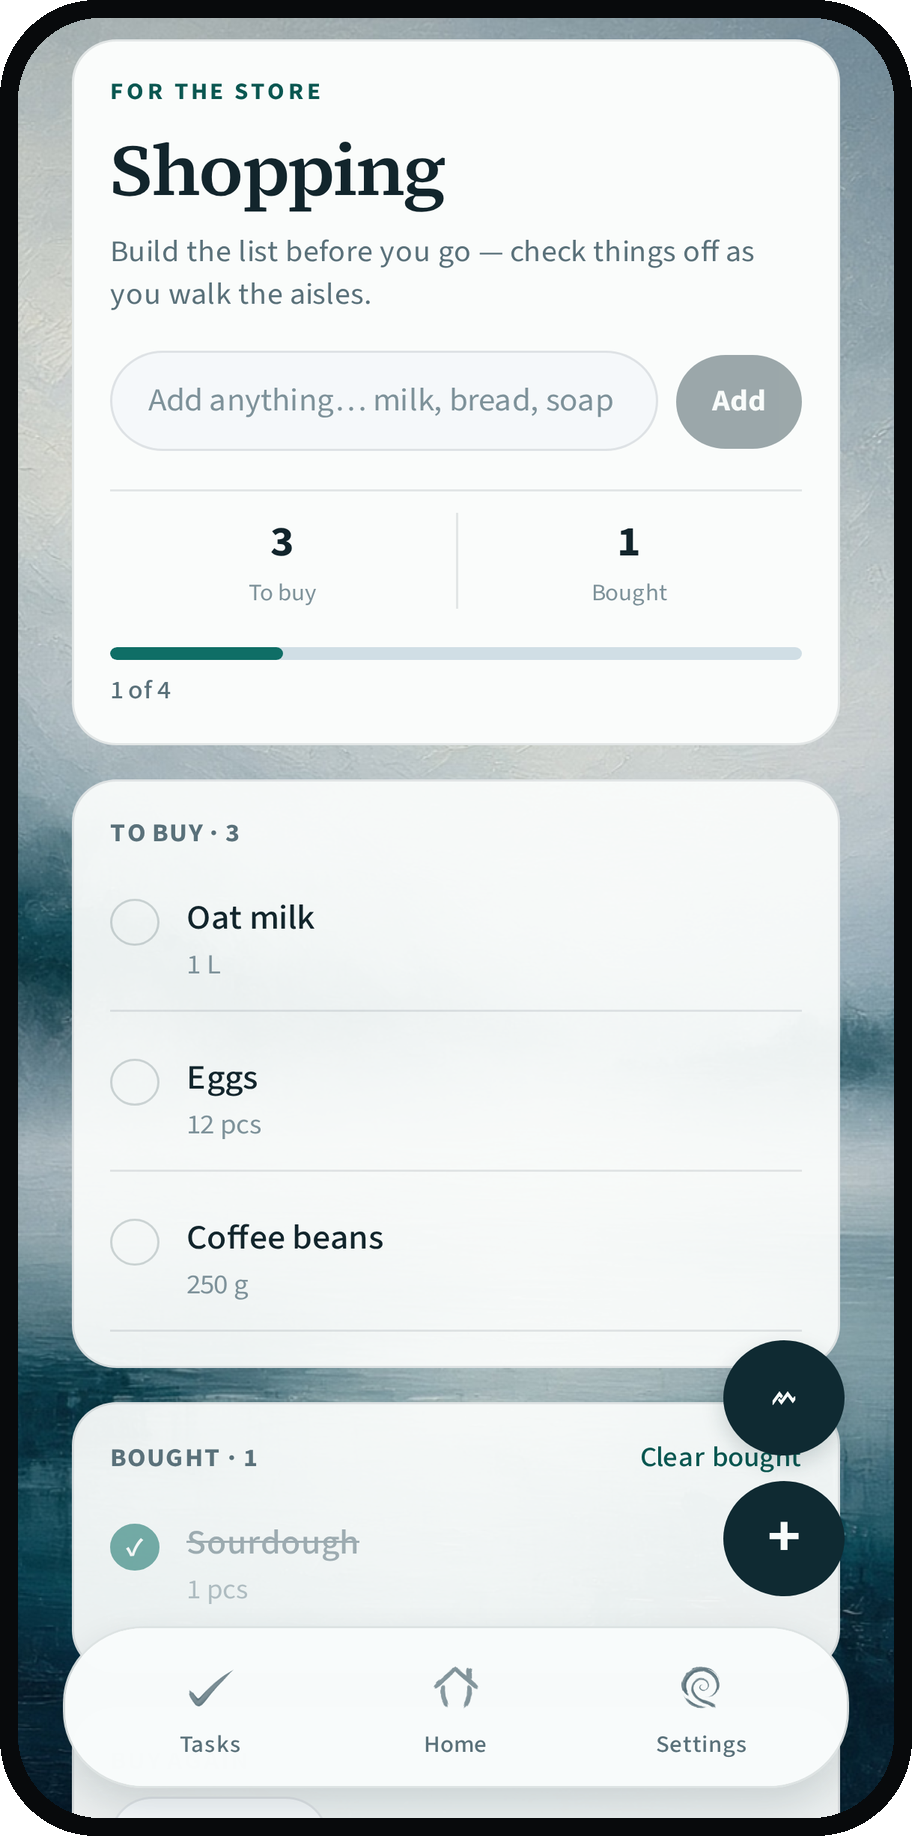
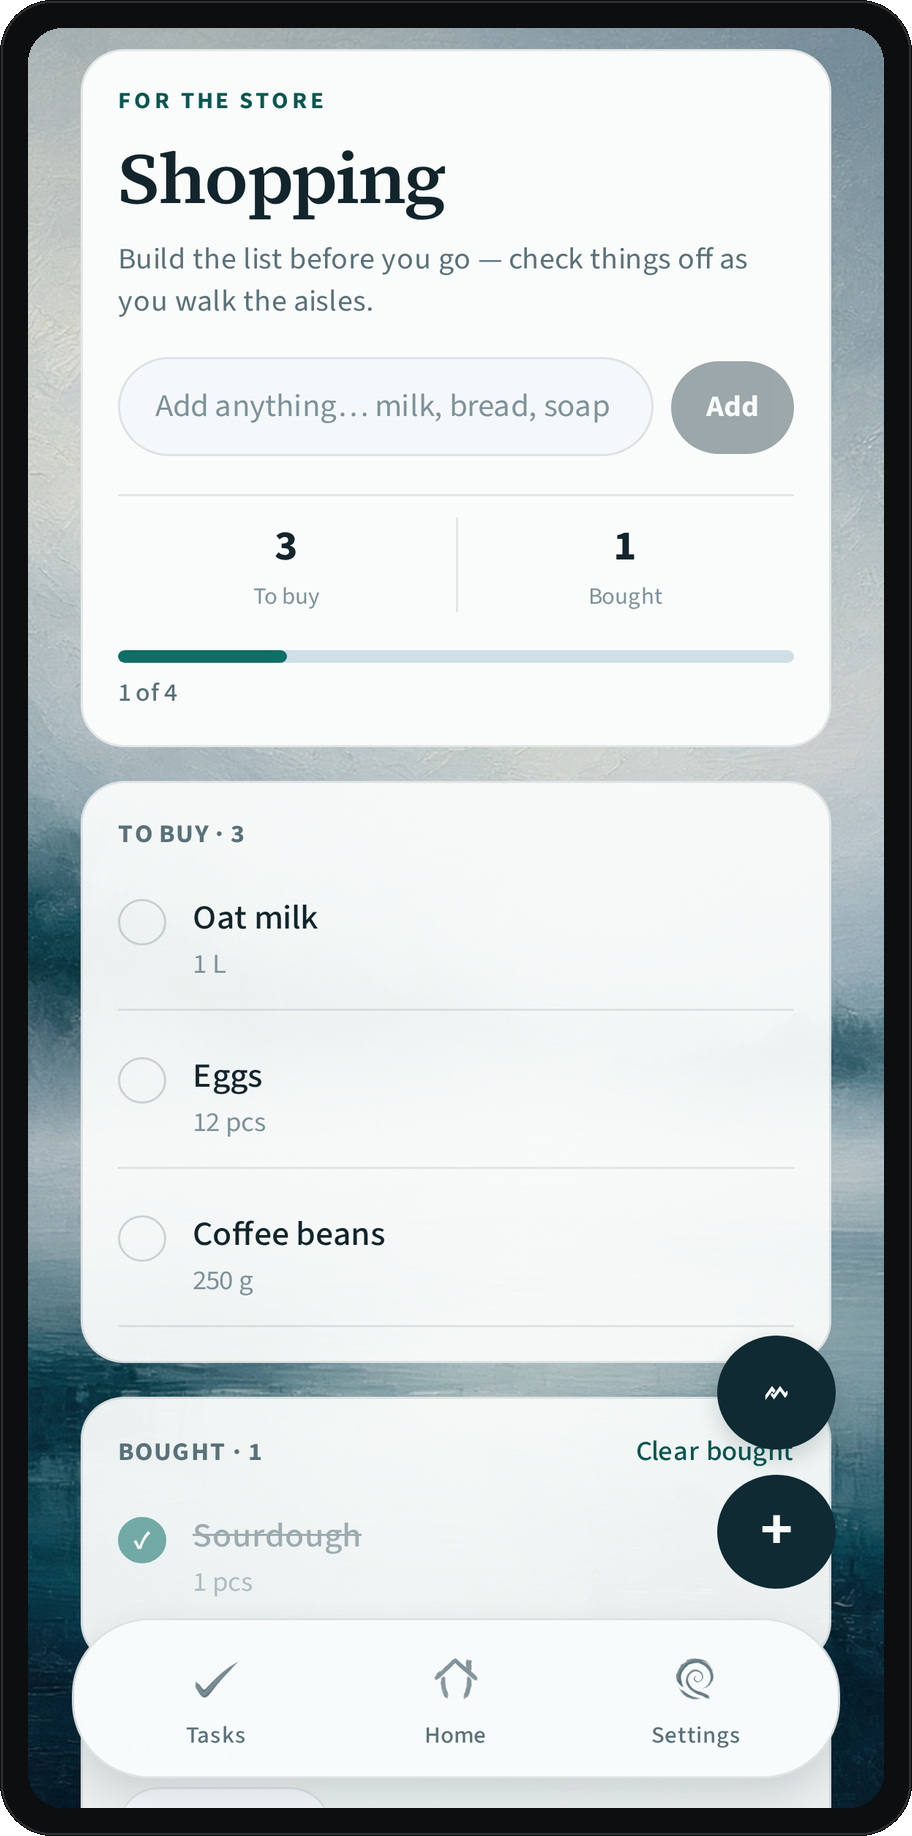
Make landing phones look like phones, not capsules (#214)
Tighten framed-device corner masks and CSS clip radii, keep a
visible bezel so Free/Pro mockups read as handsets again.

diff --git a/nova/public-site/index.html b/nova/public-site/index.html
@@ -10,7 +10,7 @@
     />
     <meta property="og:title" content="Wahrly" />
     <meta property="og:description" content="Your life, clearly." />
-    <meta property="og:image" content="./media/devices/home.png?v=r5" />
+    <meta property="og:image" content="./media/devices/home.png?v=phone3" />
     <link rel="icon" href="./media/icon.png" />
     <link rel="preconnect" href="https://fonts.googleapis.com" />
     <link rel="preconnect" href="https://fonts.gstatic.com" crossorigin />
@@ -18,7 +18,7 @@
       href="https://fonts.googleapis.com/css2?family=Fraunces:opsz,wght@9..144,480;9..144,600&family=Outfit:wght@300;400;500;600&display=swap"
       rel="stylesheet"
     />
-    <link rel="stylesheet" href="./styles.css?v=converge-v1" />
+    <link rel="stylesheet" href="./styles.css?v=phone-radius-v3" />
   </head>
   <body>
     <div class="grain" aria-hidden="true"></div>
@@ -62,7 +62,7 @@
               <img
                 class="cine-shot is-active"
                 data-shot="0"
-                src="./media/devices/home.png?v=r5"
+                src="./media/devices/home.png?v=phone3"
                 width="912"
                 height="1836"
                 alt=""
@@ -70,7 +70,7 @@
               <img
                 class="cine-shot"
                 data-shot="1"
-                src="./media/devices/tasks.png?v=r5"
+                src="./media/devices/tasks.png?v=phone3"
                 width="912"
                 height="1836"
                 alt=""
@@ -78,7 +78,7 @@
               <img
                 class="cine-shot"
                 data-shot="2"
-                src="./media/devices/chat.png?v=r5"
+                src="./media/devices/chat.png?v=phone3"
                 width="912"
                 height="1836"
                 alt=""
@@ -86,7 +86,7 @@
               <img
                 class="cine-shot"
                 data-shot="3"
-                src="./media/devices/dates.png?v=r5"
+                src="./media/devices/dates.png?v=phone3"
                 width="912"
                 height="1836"
                 alt=""
@@ -94,7 +94,7 @@
               <img
                 class="cine-shot"
                 data-shot="4"
-                src="./media/devices/bills.png?v=r5"
+                src="./media/devices/bills.png?v=phone3"
                 width="912"
                 height="1836"
                 alt=""
@@ -155,7 +155,7 @@
             <div class="converge-phone" data-cphone>
               <div class="orbit-frame">
                 <img
-                  src="./media/devices/home.png?v=r5"
+                  src="./media/devices/home.png?v=phone3"
                   width="912"
                   height="1836"
                   alt="Wahrly gathers your day"
@@ -183,25 +183,25 @@
           <div class="orbit-track" data-orbit>
             <figure class="orbit-card" data-orbit-card>
               <div class="orbit-frame">
-                <img src="./media/devices/home.png?v=r5" width="912" height="1836" alt="Home" />
+                <img src="./media/devices/home.png?v=phone3" width="912" height="1836" alt="Home" />
               </div>
               <figcaption>Home</figcaption>
             </figure>
             <figure class="orbit-card" data-orbit-card>
               <div class="orbit-frame">
-                <img src="./media/devices/tasks.png?v=r5" width="912" height="1836" alt="Tasks" />
+                <img src="./media/devices/tasks.png?v=phone3" width="912" height="1836" alt="Tasks" />
               </div>
               <figcaption>Tasks</figcaption>
             </figure>
             <figure class="orbit-card" data-orbit-card>
               <div class="orbit-frame">
-                <img src="./media/devices/chat.png?v=r5" width="912" height="1836" alt="Chat" />
+                <img src="./media/devices/chat.png?v=phone3" width="912" height="1836" alt="Chat" />
               </div>
               <figcaption>Chat</figcaption>
             </figure>
             <figure class="orbit-card" data-orbit-card>
               <div class="orbit-frame">
-                <img src="./media/devices/dates.png?v=r5" width="912" height="1836" alt="Dates" />
+                <img src="./media/devices/dates.png?v=phone3" width="912" height="1836" alt="Dates" />
               </div>
               <figcaption>Dates</figcaption>
             </figure>
@@ -216,55 +216,55 @@
           <div class="orbit-track" data-orbit>
             <figure class="orbit-card" data-orbit-card>
               <div class="orbit-frame">
-                <img src="./media/devices/plan.png?v=r5" width="912" height="1836" alt="Plan day" />
+                <img src="./media/devices/plan.png?v=phone3" width="912" height="1836" alt="Plan day" />
               </div>
               <figcaption>Plan day</figcaption>
             </figure>
             <figure class="orbit-card" data-orbit-card>
               <div class="orbit-frame">
-                <img src="./media/devices/bills.png?v=r5" width="912" height="1836" alt="Bills" />
+                <img src="./media/devices/bills.png?v=phone3" width="912" height="1836" alt="Bills" />
               </div>
               <figcaption>Bills</figcaption>
             </figure>
             <figure class="orbit-card" data-orbit-card>
               <div class="orbit-frame">
-                <img src="./media/devices/shopping.png?v=r5" width="912" height="1836" alt="Shopping" />
+                <img src="./media/devices/shopping.png?v=phone3" width="912" height="1836" alt="Shopping" />
               </div>
               <figcaption>Shopping</figcaption>
             </figure>
             <figure class="orbit-card" data-orbit-card>
               <div class="orbit-frame">
-                <img src="./media/devices/morning.png?v=r5" width="912" height="1836" alt="Morning brief" />
+                <img src="./media/devices/morning.png?v=phone3" width="912" height="1836" alt="Morning brief" />
               </div>
               <figcaption>Morning</figcaption>
             </figure>
             <figure class="orbit-card" data-orbit-card>
               <div class="orbit-frame">
-                <img src="./media/devices/evening.png?v=r5" width="912" height="1836" alt="Evening review" />
+                <img src="./media/devices/evening.png?v=phone3" width="912" height="1836" alt="Evening review" />
               </div>
               <figcaption>Evening</figcaption>
             </figure>
             <figure class="orbit-card" data-orbit-card>
               <div class="orbit-frame">
-                <img src="./media/devices/life.png?v=r5" width="912" height="1836" alt="Life" />
+                <img src="./media/devices/life.png?v=phone3" width="912" height="1836" alt="Life" />
               </div>
               <figcaption>Life</figcaption>
             </figure>
             <figure class="orbit-card" data-orbit-card>
               <div class="orbit-frame">
-                <img src="./media/devices/news.png?v=r5" width="912" height="1836" alt="News" />
+                <img src="./media/devices/news.png?v=phone3" width="912" height="1836" alt="News" />
               </div>
               <figcaption>News</figcaption>
             </figure>
             <figure class="orbit-card" data-orbit-card>
               <div class="orbit-frame">
-                <img src="./media/devices/invest.png?v=r5" width="912" height="1836" alt="Invest" />
+                <img src="./media/devices/invest.png?v=phone3" width="912" height="1836" alt="Invest" />
               </div>
               <figcaption>Invest</figcaption>
             </figure>
             <figure class="orbit-card" data-orbit-card>
               <div class="orbit-frame">
-                <img src="./media/devices/settings.png?v=r5" width="912" height="1836" alt="Wahrly Pro" />
+                <img src="./media/devices/settings.png?v=phone3" width="912" height="1836" alt="Wahrly Pro" />
               </div>
               <figcaption>Pro</figcaption>
             </figure>
@@ -300,7 +300,7 @@
           <div class="strip-visual reveal">
             <div class="strip-phone">
               <div class="orbit-frame">
-                <img src="./media/devices/home.png?v=r5" width="912" height="1836" alt="Wahrly Home" />
+                <img src="./media/devices/home.png?v=phone3" width="912" height="1836" alt="Wahrly Home" />
               </div>
             </div>
           </div>
@@ -330,6 +330,6 @@
       </div>
     </footer>
 
-    <script src="./motion.js?v=converge-v1" defer></script>
+    <script src="./motion.js?v=phone-radius-v3" defer></script>
   </body>
 </html>

diff --git a/nova/public-site/styles.css b/nova/public-site/styles.css
@@ -225,7 +225,8 @@ a {
   height: 0;
   padding-bottom: 201.315789%; /* 1836 / 912 */
   overflow: hidden;
-  border-radius: 48px;
+  /* Framed PNG ~52px @ 912 → ~23 @ 400 — keep CSS at/under that */
+  border-radius: 22px;
   background: transparent;
 }
 
@@ -723,7 +724,8 @@ a {
   height: 0;
   padding-bottom: 201.315789%; /* 1836 / 912 — locks ratio on iOS */
   overflow: hidden;
-  border-radius: 44px;
+  /* ~52px @ 912 → ~10 @ 168 — avoid capsule clip on small orbit cards */
+  border-radius: 10px;
   background: transparent;
 }
 
